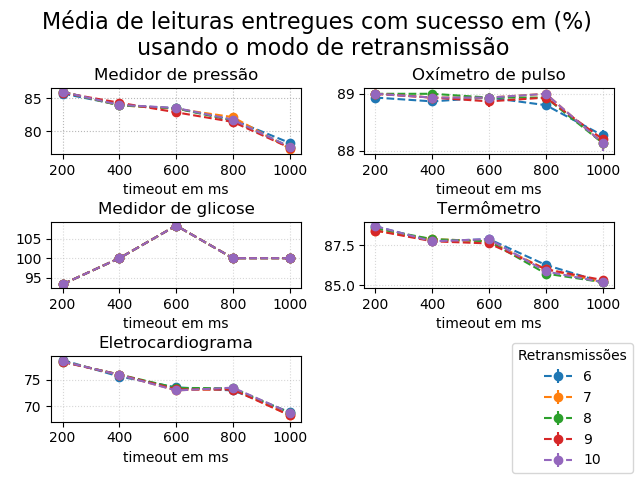
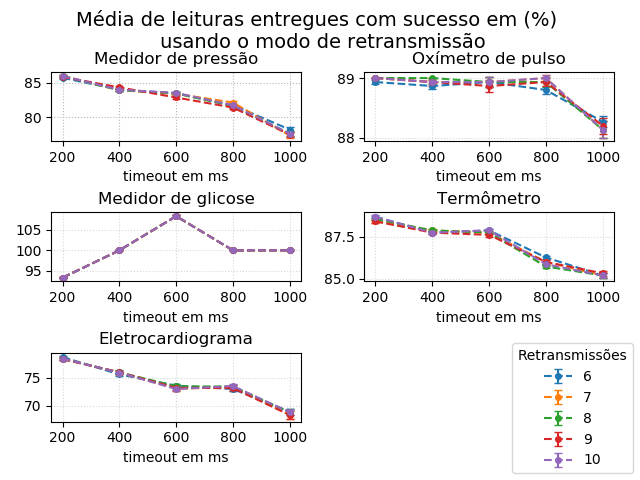
Mudança nos gráficos para plotagem.

diff --git a/Simulations/meuTest/Measurement Packets Received.py b/Simulations/meuTest/Measurement Packets Received.py
@@ -67,30 +67,30 @@ with open('Measurement Packets Received.csv') as csv_file:
 		
 
 index = [200,400,600,800,1000]
-
+bar_width = 0.10
 fig, axs = plt.subplots(3, 2)
 axs[-1, -1].axis('off')
 
-fig.suptitle('Média de leituras entregues com sucesso em (%) \n usando o modo de retransmissão', fontsize=16)
+fig.suptitle('Média de leituras entregues com sucesso em (%) \n usando o modo de retransmissão', fontsize=14)
 
 ax = axs[0,0]
 ax.set_title('Medidor de pressão')
-l1 = ax.errorbar(index, y1[0:5],  yerr=y1error[0:5], fmt='o--')
-l2 = ax.errorbar(index, y1[5:10], yerr=y1error[5:10], fmt='o--')
-l3 = ax.errorbar(index, y1[10:15],yerr=y1error[10:15], fmt='o--')
-l4 = ax.errorbar(index, y1[15:20],yerr=y1error[15:20], fmt='o--')
-l5 = ax.errorbar(index, y1[20:25],yerr=y1error[20:25], fmt='o--')
+l1 = ax.errorbar(index, y1[0:5],  yerr=y1error[0:5], fmt='o--'	,  capsize=3,markersize=4)
+l2 = ax.errorbar(index, y1[5:10], yerr=y1error[5:10], fmt='o--'	,  capsize=3,markersize=4)
+l3 = ax.errorbar(index, y1[10:15],yerr=y1error[10:15], fmt='o--', capsize=3,markersize=4)
+l4 = ax.errorbar(index, y1[15:20],yerr=y1error[15:20], fmt='o--', capsize=3,markersize=4)
+l5 = ax.errorbar(index, y1[20:25],yerr=y1error[20:25], fmt='o--', capsize=3,markersize=4)
 ax.grid(alpha=0.9, linestyle=':')
 ax.set_xlabel('timeout em ms')     
 #ax.set_ylabel('%')     
 
 ax = axs[0,1]
 ax.set_title('Oxímetro de pulso')
-ax.errorbar(index, y2[0:5],  yerr=y2error[0:5],   fmt='o--')
-ax.errorbar(index, y2[5:10], yerr=y2error[5:10],  fmt='o--')
-ax.errorbar(index, y2[10:15],yerr=y2error[10:15], fmt='o--')
-ax.errorbar(index, y2[15:20],yerr=y2error[15:20], fmt='o--')
-ax.errorbar(index, y2[20:25],yerr=y2error[20:25], fmt='o--')
+ax.errorbar(index, y2[0:5],  yerr=y2error[0:5],   fmt='o--',  capsize=3,markersize=4)
+ax.errorbar(index, y2[5:10], yerr=y2error[5:10],  fmt='o--',  capsize=3,markersize=4)
+ax.errorbar(index, y2[10:15],yerr=y2error[10:15], fmt='o--', capsize=3,markersize=4)
+ax.errorbar(index, y2[15:20],yerr=y2error[15:20], fmt='o--', capsize=3,markersize=4)
+ax.errorbar(index, y2[20:25],yerr=y2error[20:25], fmt='o--', capsize=3,markersize=4)
 ax.grid(alpha=0.5, linestyle=':')
 ax.set_xlabel('timeout em ms')       
 #ax.set_ylabel('%') 
@@ -98,11 +98,11 @@ ax.set_xlabel('timeout em ms')
 
 ax = axs[1,0]
 ax.set_title('Medidor de glicose')
-ax.errorbar(index, y3[0:5],  yerr=y3error[0:5], fmt='o--')
-ax.errorbar(index, y3[5:10], yerr=y3error[5:10], fmt='o--')
-ax.errorbar(index, y3[10:15],yerr=y3error[10:15], fmt='o--')
-ax.errorbar(index, y3[15:20],yerr=y3error[15:20], fmt='o--')
-ax.errorbar(index, y3[20:25],yerr=y3error[20:25], fmt='o--')
+ax.errorbar(index, y3[0:5],  yerr=y3error[0:5], fmt='o--'  ,  capsize=3,markersize=4)
+ax.errorbar(index, y3[5:10], yerr=y3error[5:10], fmt='o--' ,  capsize=3,markersize=4)
+ax.errorbar(index, y3[10:15],yerr=y3error[10:15], fmt='o--', capsize=3,markersize=4)
+ax.errorbar(index, y3[15:20],yerr=y3error[15:20], fmt='o--', capsize=3,markersize=4)
+ax.errorbar(index, y3[20:25],yerr=y3error[20:25], fmt='o--', capsize=3,markersize=4)
 ax.grid(alpha=0.5, linestyle=':')
 ax.set_xlabel('timeout em ms')       
 #ax.set_ylim([0,100])
@@ -110,22 +110,22 @@ ax.set_xlabel('timeout em ms')
 
 ax = axs[1,1]
 ax.set_title('Termômetro')
-ax.errorbar(index, y4[0:5],  yerr=y4error[0:5], fmt='o--')
-ax.errorbar(index, y4[5:10], yerr=y4error[5:10], fmt='o--')
-ax.errorbar(index, y4[10:15],yerr=y4error[10:15], fmt='o--')
-ax.errorbar(index, y4[15:20],yerr=y4error[15:20], fmt='o--')
-ax.errorbar(index, y4[20:25],yerr=y4error[20:25], fmt='o--')
+ax.errorbar(index, y4[0:5],  yerr=y4error[0:5], fmt='o--'  ,  capsize=3,markersize=4)
+ax.errorbar(index, y4[5:10], yerr=y4error[5:10], fmt='o--' ,  capsize=3,markersize=4)
+ax.errorbar(index, y4[10:15],yerr=y4error[10:15], fmt='o--', capsize=3,markersize=4)
+ax.errorbar(index, y4[15:20],yerr=y4error[15:20], fmt='o--', capsize=3,markersize=4)
+ax.errorbar(index, y4[20:25],yerr=y4error[20:25], fmt='o--', capsize=3,markersize=4)
 ax.grid(alpha=0.5, linestyle=':')
 ax.set_xlabel('timeout em ms')      
 #ax.set_ylabel('%') 
 
 ax = axs[2,0]
 ax.set_title('Eletrocardiograma')
-ax.errorbar(index, y5[0:5],  yerr=y5error[0:5], fmt='o--')
-ax.errorbar(index, y5[5:10], yerr=y5error[5:10], fmt='o--')
-ax.errorbar(index, y5[10:15],yerr=y5error[10:15], fmt='o--')
-ax.errorbar(index, y5[15:20],yerr=y5error[15:20], fmt='o--')
-ax.errorbar(index, y5[20:25],yerr=y5error[20:25], fmt='o--')
+ax.errorbar(index, y5[0:5],  yerr=y5error[0:5], fmt='o--'  ,  capsize=3,markersize=4)
+ax.errorbar(index, y5[5:10], yerr=y5error[5:10], fmt='o--' ,  capsize=3,markersize=4)
+ax.errorbar(index, y5[10:15],yerr=y5error[10:15], fmt='o--', capsize=3,markersize=4)
+ax.errorbar(index, y5[15:20],yerr=y5error[15:20], fmt='o--', capsize=3,markersize=4)
+ax.errorbar(index, y5[20:25],yerr=y5error[20:25], fmt='o--', capsize=3,markersize=4)
 ax.grid(alpha=0.5, linestyle=':')
 ax.set_xlabel('timeout em ms')       
 #ax.set_ylabel('%') 

diff --git a/Simulations/meuTest/measurements confirmed and unconfirmed.py b/Simulations/meuTest/measurements confirmed and unconfirmed.py
@@ -46,7 +46,7 @@ with open('Measurement Packets Received.csv') as csv_file:
 	line_count = 0
 	next(csv_reader)
 	for row in csv_reader:
-		if line_count == 2:
+		if line_count == 3:
 			break;
 		y1.append(float(row[2]))
 		y1error.append(float(row[3]))
@@ -64,42 +64,37 @@ with open('Measurement Packets Received.csv') as csv_file:
 		y5error.append(float(row[15]))
 		line_count += 1
 
+bar_width = 0.25
 ya = []
 yb = []
+yc = []
 ya.append([y1[0],y2[0],y3[0],y4[0],y5[0]])
 yb.append([y1[1],y2[1],y3[1],y4[1],y5[1]])
+yc.append([y1[2],y2[2],y3[2],y4[2],y5[2]])
 
 yaerror = []
 yberror = []
+ycerror = []
 yaerror.append([y1error[0],y2error[0],y3error[0],y4error[0],y5error[0]])
 yberror.append([y1error[1],y2error[1],y3error[1],y4error[1],y5error[1]])
+ycerror.append([y1error[2],y2error[2],y3error[2],y4error[2],y5error[1]])
 
 x = ['M. Pressão','Oxímetro','M. Glicose','Termômetro','ECG']
 index = np.arange(len(x))
 
-plt.suptitle('Média de leituras entregues com sucesso em (%) \n usando os modos com e sem confirmação', fontsize=16)
+plt.title('Comparação da média de leituras entregues \n com sucesso em (%)', fontsize=12)
 
-plt.xticks( np.arange(5), (x) )
+plt.bar(index, ya[0],  bar_width, label='Com Confirmação', yerr=yaerror[0], capsize=4)
+plt.bar(index +  bar_width, yb[0],  bar_width, label='Sem Confirmação', yerr=yberror[0], capsize=4)
+plt.bar(index +  bar_width*2, yc[0],  bar_width, label='Com Retransmissão', yerr=ycerror[0], capsize=4)
 
-l1 = plt.errorbar(index, ya[0],  	yerr=yaerror[0], fmt='o--')
-l2 = plt.errorbar(index, yb[0], 	yerr=yberror[0], fmt='o--')
-# l3 = plt.errorbar(index, y3[0],		yerr=y3error[0], fmt='o--')
-# l4 = plt.errorbar(index, y4[0],		yerr=y4error[0], fmt='o--')
-# l5 = plt.errorbar(index, y5[0],		yerr=y5error[0], fmt='o--')
-plt.grid(alpha=0.9, linestyle=':')         
+plt.xticks(index + (bar_width), x)
+plt.grid(axis='y',alpha=0.9, linestyle=':')
+#plt.yaxis.grid(True)
 
-# Labels to use in the legend for each line
-line_labels = ['Com Confirmação', 'Sem Confirmação']
-
-# Create the legend
-plt.legend((l1, l2),     # The line objects
-           (line_labels),   # The labels for each line
-           loc='upper right',   # Position of legend
-           title='Modos de operação'  # Title for the legend
-           )
-
+plt.legend()
 plt.xlabel('')
-plt.ylabel('Pacotes')
+plt.ylabel('Pacotes',fontsize=12)
 plt.show()
 
 

diff --git a/Simulations/meuTest/Number of transmissions retries per packet.py b/Simulations/meuTest/Number of transmissions retries per packet.py
@@ -65,14 +65,15 @@ with open('Number of transmissions retries per packet.csv') as csv_file:
 
 index = [1,2,3,4,5,6,7]
 
-plt.suptitle('Média de retransmissão de pacotes', fontsize=16)
+#plt.suptitle('Média de retransmissão de pacotes', fontsize=12)
+plt.title('Média de retransmissão de pacotes', fontsize=12)
 
-l1 = plt.errorbar(index, y1[0],  	yerr=y1error[0], fmt='o--')
-l2 = plt.errorbar(index, y2[0], 	yerr=y2error[0], fmt='o--')
-l3 = plt.errorbar(index, y3[0],		yerr=y3error[0], fmt='o--')
-l4 = plt.errorbar(index, y4[0],		yerr=y4error[0], fmt='o--')
-l5 = plt.errorbar(index, y5[0],		yerr=y5error[0], fmt='o--')
-plt.grid(alpha=0.9, linestyle=':')         
+l1 = plt.errorbar(index, y1[0],  	yerr=y1error[0], fmt='o--',capsize=4,markersize=4)
+l2 = plt.errorbar(index, y2[0], 	yerr=y2error[0], fmt='o--',capsize=4,markersize=4)
+l3 = plt.errorbar(index, y3[0],		yerr=y3error[0], fmt='o--',capsize=4,markersize=4)
+l4 = plt.errorbar(index, y4[0],		yerr=y4error[0], fmt='o--',capsize=4,markersize=4)
+l5 = plt.errorbar(index, y5[0],		yerr=y5error[0], fmt='o--',capsize=4,markersize=4)
+plt.grid(axis='y',alpha=0.9, linestyle=':')         
 
 # Labels to use in the legend for each line
 line_labels = ['200', '400', '600', '800', '1000']
@@ -84,8 +85,9 @@ plt.legend((l1, l2, l3, l4, l5),     # The line objects
            title='timeouts'  # Title for the legend
            )
 
-plt.xlabel('Retransmissões')
-plt.ylabel('pacotes')
+plt.xlabel('Retransmissões', fontsize=12)
+plt.ylabel('pacotes', fontsize=12)
+
 plt.show()
 
 

diff --git a/Simulations/meuTest/Total of associations made.py b/Simulations/meuTest/Total of associations made.py
@@ -24,22 +24,21 @@
 import csv
 import numpy as np
 import matplotlib.pyplot as plt
-
-
-y = [8.45, 0.15, 1.24]
+bar_width = 0.25
+y = [8.45, 1.08, 1.24]
 yerror = [0.15, 0.02, 0.12146]
-x = ['Com confirmação', 'Sem confirmação', 'Com retransmissão']
+x = ['Com confirmação', 'Sem confirmação', 'Retransmissão']
 #organiza as label para serem plotadas no eixo x
 index = np.arange(len(x))
 
-plt.bar(index, y, yerr=yerror)
+plt.bar(index, y, yerr=yerror,capsize=4)
 plt.xticks(index, x)
 
 plt.ylabel('Associações')
 #plt.xlabel('Modos de operação')
-plt.title('Média de associações por modo de operação')
-plt.grid(linestyle='dotted')
-
+plt.title('Média de associações \n por modo de operação')
+plt.grid(axis='y',linestyle='dotted')
+#plt.xticks(rotation=45)
 plt.show()
 
 

diff --git a/Simulations/meuTest/Application level latency in ms.py b/Simulations/meuTest/Application level latency in ms.py
@@ -47,7 +47,7 @@ plt.tight_layout()
 plt.xlabel('milissegundos')
 plt.ylabel("quantidade de pacotes")
 plt.title('Latência da camada de aplicação em milissegundos')
-plt.grid(linestyle='dotted')
+plt.grid(axis='y',linestyle='dotted')
 plt.show()
 
 
